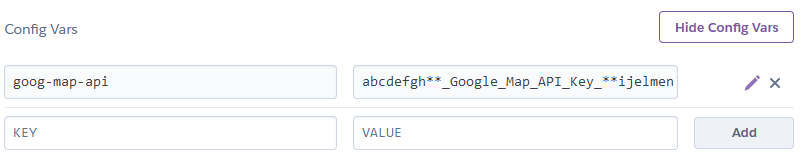
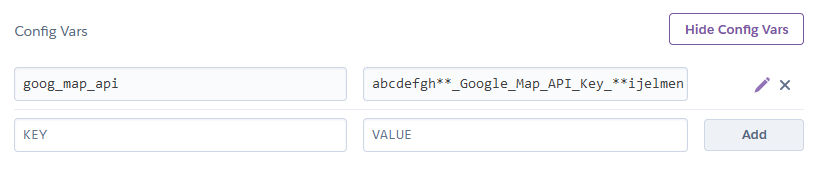
heroku config vars underscore

diff --git a/heroku-server.js b/heroku-server.js
@@ -4,6 +4,4 @@
 
 console.log("Heroku start, Google Maps API key = ", process.env["goog_map_api"]);
 
-console.log("all config ", process.env);
-
 require("./web-server/gmap-dragdrop-react-server.js")();
